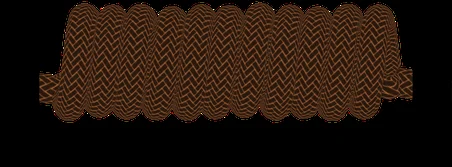
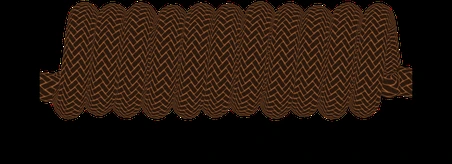
Header cable: sharper renders (2x supersampled) and natural patina
Mostly smooth aged copper with soft verdigris patches, verdigris crust in
the collar grooves and where the collars meet the cable; exported at
higher quality. Cable band 82px; LED path updated. Stylesheet vg-8-patina.

Claude-Session: https://claude.ai/code/session_014kgsP4zXbR91SpjPr6JWR2

diff --git a/mockups/nav-row.html b/mockups/nav-row.html
@@ -44,14 +44,14 @@ a.k:active .legend, a.k:active .mark, .k[aria-current] .legend, .k[aria-current]
 .medallion-wrap { position: relative; z-index: 2; flex-shrink: 0; }
 /* The cable: straight braided runs stretch with the page; the coil and plug stay fixed. It starts under the medallion. */
 .cable { position: relative; flex: 1; display: flex; min-width: 0; margin: -5.8px -26px 0 -24px; }   /* -5.8px: the cable lies on the keys' plate line */
-.cable .run { position: relative; flex: 1; min-width: 24px; height: 83.5px; background: url(keys/cable/tile.webp) repeat-x 0 0 / 120px 83.5px; }
+.cable .run { position: relative; flex: 1; min-width: 24px; height: 82px; background: url(keys/cable/tile.webp) repeat-x 0 0 / 120px 82px; }
 .cable .run.long { flex: 2; }
-.cable .coil { position: relative; flex-shrink: 0; width: 226px; height: 83.5px; background: url(keys/cable/coil.webp) 0 0 / 100% 100%; }
-.cable .plug { flex-shrink: 0; width: 108px; height: 83.5px; display: block; }
+.cable .coil { position: relative; flex-shrink: 0; width: 226px; height: 82px; background: url(keys/cable/coil.webp) 0 0 / 100% 100%; }
+.cable .plug { flex-shrink: 0; width: 108px; height: 82px; display: block; }
 /* LED: a glow render of the same cable (copper light through the gaps in the weave), shown only where a bead is,
    through a mask the script moves along the cable. Black in the glow image is neutral under the screen blend. */
 .cable .glow { position: absolute; inset: 0; pointer-events: none; mix-blend-mode: screen; filter: brightness(1.6); -webkit-mask-repeat: no-repeat; mask-repeat: no-repeat; -webkit-mask-image: linear-gradient(transparent, transparent); mask-image: linear-gradient(transparent, transparent); }
-.cable .run .glow { background: url(keys/cable/tile-glow.webp) repeat-x 0 0 / 120px 83.5px; }
+.cable .run .glow { background: url(keys/cable/tile-glow.webp) repeat-x 0 0 / 120px 82px; }
 .cable .coil .glow { background: url(keys/cable/coil-glow.webp) 0 0 / 100% 100%; }
 .bead { position: absolute; left: 0; top: 0; width: 34px; height: 16px; margin: -8px 0 0 -17px; border-radius: 50%; pointer-events: none; mix-blend-mode: screen; opacity: 0;
   background: radial-gradient(closest-side, rgba(232,131,77,.35), rgba(232,131,77,0)); }   /* faint bloom around the bead */
@@ -129,7 +129,7 @@ function key([cap, link]) {
 document.querySelectorAll('[data-row]').forEach(r => { r.innerHTML = ROWS[r.dataset.row].map(key).join(''); });
 
 // LED beads. The coil's centreline comes from the 3D render (CSS px within the coil image; 1 = on the near side of a loop).
-const LED = {"axis": 43.1, "collar": 19.6, "coil": [[0.0, 43.1, 1], [13.8, 43.1, 1], [27.2, 44.7, 0], [31.9, 43.3, 0], [32.6, 46.5, 0], [33.6, 51.4, 0], [34.6, 53.1, 1], [35.6, 51.3, 1], [36.6, 46.2, 1], [37.6, 38.8, 1], [38.6, 30.1, 1], [39.6, 21.6, 1], [40.6, 14.5, 1], [41.6, 10.1, 1], [42.5, 9.1, 1], [43.5, 11.7, 0], [44.5, 17.5, 0], [45.4, 25.5, 0], [46.4, 34.3, 0], [47.4, 42.3, 0], [48.3, 48.2, 0], [49.3, 51.1, 1], [50.2, 50.5, 1], [51.2, 46.3, 1], [52.1, 39.3, 1], [53.0, 30.8, 1], [53.9, 22.2, 1], [54.9, 15.1, 1], [55.8, 10.7, 1], [56.7, 9.7, 1], [57.6, 12.1, 0], [58.5, 17.7, 0], [59.4, 25.6, 0], [60.3, 34.3, 0], [61.2, 42.5, 0], [62.1, 48.7, 0], [63.0, 52.0, 0], [63.9, 51.8, 1], [64.9, 48.2, 1], [65.8, 41.8, 1], [66.7, 33.5, 1], [67.7, 24.8, 1], [68.6, 17.0, 1], [69.6, 11.6, 1], [70.5, 9.3, 1], [71.5, 10.4, 0], [72.5, 14.8, 0], [73.5, 21.8, 0], [74.5, 30.3, 0], [75.5, 38.9, 0], [76.5, 46.4, 0], [77.5, 51.3, 0], [78.6, 52.8, 1], [79.6, 50.5, 1], [80.7, 45.1, 1], [81.7, 37.3, 1], [82.8, 28.6, 1], [83.8, 20.3, 1], [84.9, 14.0, 1], [85.9, 10.7, 1], [86.9, 11.0, 0], [88.0, 14.9, 0], [89.0, 21.7, 0], [90.0, 30.1, 0], [91.0, 38.8, 0], [92.0, 46.2, 0], [92.9, 51.2, 0], [93.9, 52.9, 1], [94.8, 51.1, 1], [95.7, 45.9, 1], [96.6, 38.3, 1], [97.5, 29.6, 1], [98.5, 21.2, 1], [99.4, 14.4, 1], [100.2, 10.3, 1], [101.1, 9.5, 0], [102.0, 12.2, 0], [102.9, 18.1, 0], [103.8, 26.1, 0], [104.6, 34.9, 0], [105.5, 42.9, 0], [106.4, 48.9, 0], [107.3, 52.0, 0], [108.2, 51.7, 1], [109.1, 48.1, 1], [110.0, 41.6, 1], [110.9, 33.3, 1], [111.9, 24.6, 1], [112.8, 16.9, 1], [113.8, 11.7, 1], [114.8, 9.8, 1], [115.8, 11.4, 0], [116.8, 16.4, 0], [117.8, 23.9, 0], [118.8, 32.6, 0], [119.8, 40.9, 0], [120.9, 47.5, 0], [121.9, 51.1, 0], [122.9, 51.1, 1], [124.0, 47.5, 1], [125.0, 41.1, 1], [126.1, 32.9, 1], [127.1, 24.1, 1], [128.1, 16.4, 1], [129.2, 10.9, 1], [130.2, 8.7, 1], [131.2, 10.0, 0], [132.2, 14.7, 0], [133.2, 21.9, 0], [134.2, 30.5, 0], [135.1, 39.1, 0], [136.1, 46.4, 0], [137.1, 51.3, 0], [138.0, 52.9, 1], [139.0, 50.9, 1], [139.9, 45.6, 1], [140.9, 37.9, 1], [141.8, 29.2, 1], [142.8, 20.9, 1], [143.7, 14.2, 1], [144.6, 10.4, 1], [145.5, 9.9, 0], [146.4, 12.9, 0], [147.3, 19.0, 0], [148.2, 27.1, 0], [149.1, 35.8, 0], [150.0, 43.7, 0], [151.0, 49.4, 0], [151.9, 52.0, 0], [152.8, 50.9, 1], [153.8, 46.4, 1], [154.7, 39.2, 1], [155.6, 30.5, 1], [156.5, 22.1, 1], [157.5, 15.3, 1], [158.4, 11.3, 1], [159.4, 10.7, 0], [160.3, 13.7, 0], [161.3, 19.6, 0], [162.2, 27.6, 0], [163.2, 36.4, 0], [164.1, 44.4, 0], [165.1, 50.2, 0], [166.1, 53.0, 0], [167.1, 52.3, 1], [168.1, 48.3, 1], [169.0, 41.7, 1], [170.0, 33.3, 1], [171.0, 24.6, 1], [172.0, 16.9, 1], [173.0, 11.4, 1], [174.0, 9.2, 1], [175.1, 10.6, 0], [176.1, 15.3, 0], [177.1, 22.6, 0], [178.1, 31.2, 0], [179.2, 39.7, 0], [180.2, 46.8, 0], [181.2, 51.3, 0], [182.2, 52.2, 1], [183.2, 49.6, 1], [184.2, 43.8, 1], [185.2, 35.9, 1], [186.2, 27.1, 1], [187.2, 19.0, 1], [188.2, 12.8, 1], [189.2, 9.8, 1], [190.1, 10.3, 0], [191.1, 14.5, 0], [192.0, 21.6, 0], [192.9, 30.1, 0], [193.9, 38.6, 0], [194.5, 42.4, 0], [198.8, 41.1, 0], [212.2, 43.1, 1], [226.2, 43.1, 1], [226.2, 43.1, 1]]};
+const LED = {"axis":42.4,"collar":19.6,"coil":[[0.0,42.4,1],[13.8,42.4,1],[27.2,44.0,0],[31.9,42.6,0],[32.6,45.8,0],[33.6,50.7,0],[34.6,52.4,1],[35.6,50.5,1],[36.6,45.5,1],[37.6,38.0,1],[38.6,29.4,1],[39.6,20.9,1],[40.6,13.8,1],[41.6,9.4,1],[42.5,8.3,1],[43.5,11.0,0],[44.5,16.8,0],[45.4,24.8,0],[46.4,33.6,0],[47.4,41.6,0],[48.3,47.5,0],[49.3,50.4,1],[50.2,49.8,1],[51.2,45.6,1],[52.1,38.6,1],[53.0,30.0,1],[53.9,21.5,1],[54.9,14.4,1],[55.8,10.0,1],[56.7,9.0,1],[57.6,11.4,0],[58.5,17.0,0],[59.4,24.8,0],[60.3,33.6,0],[61.2,41.8,0],[62.1,48.0,0],[63.0,51.3,0],[63.9,51.1,1],[64.9,47.5,1],[65.8,41.1,1],[66.7,32.8,1],[67.7,24.1,1],[68.6,16.3,1],[69.6,10.9,1],[70.5,8.6,1],[71.5,9.7,0],[72.5,14.1,0],[73.5,21.1,0],[74.5,29.6,0],[75.5,38.2,0],[76.5,45.7,0],[77.5,50.6,0],[78.6,52.0,1],[79.6,49.8,1],[80.7,44.3,1],[81.7,36.6,1],[82.8,27.9,1],[83.8,19.6,1],[84.9,13.3,1],[85.9,9.9,1],[86.9,10.3,0],[88.0,14.2,0],[89.0,21.0,0],[90.0,29.4,0],[91.0,38.0,0],[92.0,45.5,0],[92.9,50.5,0],[93.9,52.2,1],[94.8,50.3,1],[95.7,45.2,1],[96.6,37.6,1],[97.5,28.9,1],[98.5,20.5,1],[99.4,13.7,1],[100.2,9.6,1],[101.1,8.8,0],[102.0,11.5,0],[102.9,17.4,0],[103.8,25.4,0],[104.6,34.1,0],[105.5,42.2,0],[106.4,48.2,0],[107.3,51.3,0],[108.2,51.0,1],[109.1,47.3,1],[110.0,40.9,1],[110.9,32.6,1],[111.9,23.9,1],[112.8,16.2,1],[113.8,11.0,1],[114.8,9.0,1],[115.8,10.7,0],[116.8,15.7,0],[117.8,23.2,0],[118.8,31.9,0],[119.8,40.2,0],[120.9,46.8,0],[121.9,50.4,0],[122.9,50.4,1],[124.0,46.8,1],[125.0,40.4,1],[126.1,32.1,1],[127.1,23.4,1],[128.1,15.7,1],[129.2,10.2,1],[130.2,8.0,1],[131.2,9.3,0],[132.2,14.0,0],[133.2,21.2,0],[134.2,29.8,0],[135.1,38.4,0],[136.1,45.7,0],[137.1,50.6,0],[138.0,52.2,1],[139.0,50.2,1],[139.9,44.9,1],[140.9,37.2,1],[141.8,28.5,1],[142.8,20.2,1],[143.7,13.5,1],[144.6,9.6,1],[145.5,9.1,0],[146.4,12.2,0],[147.3,18.3,0],[148.2,26.4,0],[149.1,35.1,0],[150.0,43.0,0],[151.0,48.7,0],[151.9,51.3,0],[152.8,50.2,1],[153.8,45.7,1],[154.7,38.5,1],[155.6,29.8,1],[156.5,21.4,1],[157.5,14.6,1],[158.4,10.6,1],[159.4,10.0,0],[160.3,12.9,0],[161.3,18.9,0],[162.2,26.9,0],[163.2,35.7,0],[164.1,43.7,0],[165.1,49.5,0],[166.1,52.3,0],[167.1,51.6,1],[168.1,47.6,1],[169.0,41.0,1],[170.0,32.6,1],[171.0,23.9,1],[172.0,16.2,1],[173.0,10.7,1],[174.0,8.5,1],[175.1,9.9,0],[176.1,14.6,0],[177.1,21.9,0],[178.1,30.5,0],[179.2,39.0,0],[180.2,46.1,0],[181.2,50.5,0],[182.2,51.5,1],[183.2,48.9,1],[184.2,43.1,1],[185.2,35.2,1],[186.2,26.4,1],[187.2,18.3,1],[188.2,12.1,1],[189.2,9.0,1],[190.1,9.6,0],[191.1,13.8,0],[192.0,20.9,0],[192.9,29.4,0],[193.9,37.9,0],[194.5,41.7,0],[198.8,40.4,0],[212.2,42.4,1],[226.2,42.4,1],[226.2,42.4,1]]};
 const SPEED = 140, EVERY = 1400;                              // bead speed px/s, ms between beads
 function ledPath(cable) {                                     // the whole route in cable coordinates, rebuilt on resize
   const [run1, coil, run2, plug] = cable.children, pts = [], seg = [];

diff --git a/src/static/script.js b/src/static/script.js
@@ -151,7 +151,7 @@ function fill(side){
 ;(()=>{
   const cable=document.querySelector(".site-header .cable");
   if(!cable||matchMedia("(prefers-reduced-motion: reduce)").matches)return;
-  const LED={"axis":43.1,"collar":19.6,"coil":[[0.0,43.1,1],[13.8,43.1,1],[27.2,44.7,0],[31.9,43.3,0],[32.6,46.5,0],[33.6,51.4,0],[34.6,53.1,1],[35.6,51.3,1],[36.6,46.2,1],[37.6,38.8,1],[38.6,30.1,1],[39.6,21.6,1],[40.6,14.5,1],[41.6,10.1,1],[42.5,9.1,1],[43.5,11.7,0],[44.5,17.5,0],[45.4,25.5,0],[46.4,34.3,0],[47.4,42.3,0],[48.3,48.2,0],[49.3,51.1,1],[50.2,50.5,1],[51.2,46.3,1],[52.1,39.3,1],[53.0,30.8,1],[53.9,22.2,1],[54.9,15.1,1],[55.8,10.7,1],[56.7,9.7,1],[57.6,12.1,0],[58.5,17.7,0],[59.4,25.6,0],[60.3,34.3,0],[61.2,42.5,0],[62.1,48.7,0],[63.0,52.0,0],[63.9,51.8,1],[64.9,48.2,1],[65.8,41.8,1],[66.7,33.5,1],[67.7,24.8,1],[68.6,17.0,1],[69.6,11.6,1],[70.5,9.3,1],[71.5,10.4,0],[72.5,14.8,0],[73.5,21.8,0],[74.5,30.3,0],[75.5,38.9,0],[76.5,46.4,0],[77.5,51.3,0],[78.6,52.8,1],[79.6,50.5,1],[80.7,45.1,1],[81.7,37.3,1],[82.8,28.6,1],[83.8,20.3,1],[84.9,14.0,1],[85.9,10.7,1],[86.9,11.0,0],[88.0,14.9,0],[89.0,21.7,0],[90.0,30.1,0],[91.0,38.8,0],[92.0,46.2,0],[92.9,51.2,0],[93.9,52.9,1],[94.8,51.1,1],[95.7,45.9,1],[96.6,38.3,1],[97.5,29.6,1],[98.5,21.2,1],[99.4,14.4,1],[100.2,10.3,1],[101.1,9.5,0],[102.0,12.2,0],[102.9,18.1,0],[103.8,26.1,0],[104.6,34.9,0],[105.5,42.9,0],[106.4,48.9,0],[107.3,52.0,0],[108.2,51.7,1],[109.1,48.1,1],[110.0,41.6,1],[110.9,33.3,1],[111.9,24.6,1],[112.8,16.9,1],[113.8,11.7,1],[114.8,9.8,1],[115.8,11.4,0],[116.8,16.4,0],[117.8,23.9,0],[118.8,32.6,0],[119.8,40.9,0],[120.9,47.5,0],[121.9,51.1,0],[122.9,51.1,1],[124.0,47.5,1],[125.0,41.1,1],[126.1,32.9,1],[127.1,24.1,1],[128.1,16.4,1],[129.2,10.9,1],[130.2,8.7,1],[131.2,10.0,0],[132.2,14.7,0],[133.2,21.9,0],[134.2,30.5,0],[135.1,39.1,0],[136.1,46.4,0],[137.1,51.3,0],[138.0,52.9,1],[139.0,50.9,1],[139.9,45.6,1],[140.9,37.9,1],[141.8,29.2,1],[142.8,20.9,1],[143.7,14.2,1],[144.6,10.4,1],[145.5,9.9,0],[146.4,12.9,0],[147.3,19.0,0],[148.2,27.1,0],[149.1,35.8,0],[150.0,43.7,0],[151.0,49.4,0],[151.9,52.0,0],[152.8,50.9,1],[153.8,46.4,1],[154.7,39.2,1],[155.6,30.5,1],[156.5,22.1,1],[157.5,15.3,1],[158.4,11.3,1],[159.4,10.7,0],[160.3,13.7,0],[161.3,19.6,0],[162.2,27.6,0],[163.2,36.4,0],[164.1,44.4,0],[165.1,50.2,0],[166.1,53.0,0],[167.1,52.3,1],[168.1,48.3,1],[169.0,41.7,1],[170.0,33.3,1],[171.0,24.6,1],[172.0,16.9,1],[173.0,11.4,1],[174.0,9.2,1],[175.1,10.6,0],[176.1,15.3,0],[177.1,22.6,0],[178.1,31.2,0],[179.2,39.7,0],[180.2,46.8,0],[181.2,51.3,0],[182.2,52.2,1],[183.2,49.6,1],[184.2,43.8,1],[185.2,35.9,1],[186.2,27.1,1],[187.2,19.0,1],[188.2,12.8,1],[189.2,9.8,1],[190.1,10.3,0],[191.1,14.5,0],[192.0,21.6,0],[192.9,30.1,0],[193.9,38.6,0],[194.5,42.4,0],[198.8,41.1,0],[212.2,43.1,1],[226.2,43.1,1],[226.2,43.1,1]]};                  // coil centreline in CSS px within the coil image, from mockups/keys/cable-export.py
+  const LED={"axis":42.4,"collar":19.6,"coil":[[0.0,42.4,1],[13.8,42.4,1],[27.2,44.0,0],[31.9,42.6,0],[32.6,45.8,0],[33.6,50.7,0],[34.6,52.4,1],[35.6,50.5,1],[36.6,45.5,1],[37.6,38.0,1],[38.6,29.4,1],[39.6,20.9,1],[40.6,13.8,1],[41.6,9.4,1],[42.5,8.3,1],[43.5,11.0,0],[44.5,16.8,0],[45.4,24.8,0],[46.4,33.6,0],[47.4,41.6,0],[48.3,47.5,0],[49.3,50.4,1],[50.2,49.8,1],[51.2,45.6,1],[52.1,38.6,1],[53.0,30.0,1],[53.9,21.5,1],[54.9,14.4,1],[55.8,10.0,1],[56.7,9.0,1],[57.6,11.4,0],[58.5,17.0,0],[59.4,24.8,0],[60.3,33.6,0],[61.2,41.8,0],[62.1,48.0,0],[63.0,51.3,0],[63.9,51.1,1],[64.9,47.5,1],[65.8,41.1,1],[66.7,32.8,1],[67.7,24.1,1],[68.6,16.3,1],[69.6,10.9,1],[70.5,8.6,1],[71.5,9.7,0],[72.5,14.1,0],[73.5,21.1,0],[74.5,29.6,0],[75.5,38.2,0],[76.5,45.7,0],[77.5,50.6,0],[78.6,52.0,1],[79.6,49.8,1],[80.7,44.3,1],[81.7,36.6,1],[82.8,27.9,1],[83.8,19.6,1],[84.9,13.3,1],[85.9,9.9,1],[86.9,10.3,0],[88.0,14.2,0],[89.0,21.0,0],[90.0,29.4,0],[91.0,38.0,0],[92.0,45.5,0],[92.9,50.5,0],[93.9,52.2,1],[94.8,50.3,1],[95.7,45.2,1],[96.6,37.6,1],[97.5,28.9,1],[98.5,20.5,1],[99.4,13.7,1],[100.2,9.6,1],[101.1,8.8,0],[102.0,11.5,0],[102.9,17.4,0],[103.8,25.4,0],[104.6,34.1,0],[105.5,42.2,0],[106.4,48.2,0],[107.3,51.3,0],[108.2,51.0,1],[109.1,47.3,1],[110.0,40.9,1],[110.9,32.6,1],[111.9,23.9,1],[112.8,16.2,1],[113.8,11.0,1],[114.8,9.0,1],[115.8,10.7,0],[116.8,15.7,0],[117.8,23.2,0],[118.8,31.9,0],[119.8,40.2,0],[120.9,46.8,0],[121.9,50.4,0],[122.9,50.4,1],[124.0,46.8,1],[125.0,40.4,1],[126.1,32.1,1],[127.1,23.4,1],[128.1,15.7,1],[129.2,10.2,1],[130.2,8.0,1],[131.2,9.3,0],[132.2,14.0,0],[133.2,21.2,0],[134.2,29.8,0],[135.1,38.4,0],[136.1,45.7,0],[137.1,50.6,0],[138.0,52.2,1],[139.0,50.2,1],[139.9,44.9,1],[140.9,37.2,1],[141.8,28.5,1],[142.8,20.2,1],[143.7,13.5,1],[144.6,9.6,1],[145.5,9.1,0],[146.4,12.2,0],[147.3,18.3,0],[148.2,26.4,0],[149.1,35.1,0],[150.0,43.0,0],[151.0,48.7,0],[151.9,51.3,0],[152.8,50.2,1],[153.8,45.7,1],[154.7,38.5,1],[155.6,29.8,1],[156.5,21.4,1],[157.5,14.6,1],[158.4,10.6,1],[159.4,10.0,0],[160.3,12.9,0],[161.3,18.9,0],[162.2,26.9,0],[163.2,35.7,0],[164.1,43.7,0],[165.1,49.5,0],[166.1,52.3,0],[167.1,51.6,1],[168.1,47.6,1],[169.0,41.0,1],[170.0,32.6,1],[171.0,23.9,1],[172.0,16.2,1],[173.0,10.7,1],[174.0,8.5,1],[175.1,9.9,0],[176.1,14.6,0],[177.1,21.9,0],[178.1,30.5,0],[179.2,39.0,0],[180.2,46.1,0],[181.2,50.5,0],[182.2,51.5,1],[183.2,48.9,1],[184.2,43.1,1],[185.2,35.2,1],[186.2,26.4,1],[187.2,18.3,1],[188.2,12.1,1],[189.2,9.0,1],[190.1,9.6,0],[191.1,13.8,0],[192.0,20.9,0],[192.9,29.4,0],[193.9,37.9,0],[194.5,41.7,0],[198.8,40.4,0],[212.2,42.4,1],[226.2,42.4,1],[226.2,42.4,1]]};                  // coil centreline in CSS px within the coil image, from mockups/keys/cable-export.py
   const SPEED=140,GAP=SPEED*1.4;      // px per second; px between beads (one every 1.4s)
   const [run1,coil,run2,plug]=cable.children,pieces=[run1,coil,run2],blooms=[];
   let route=null;

diff --git a/mockups/keys/render-cable.html b/mockups/keys/render-cable.html
@@ -16,8 +16,8 @@ import { RoundedBoxGeometry } from 'three/addons/geometries/RoundedBoxGeometry.j
 // Pieces: 'tile' (straight run, whole braid periods), 'coil' (coiled section, patina-copper collars hide the joins),
 // 'plug' (heat-shrink tail, patina-copper housing, steel USB-C shell pointing right).
 // glow: true renders the same piece lit only from inside (copper light through the gaps in the weave), for the LED.
-const PX = 15;                                  // render px per mm
-const H = 480, W = 1800;
+const PX = 30;                                  // render px per mm (2x supersampled; exported down to 2x CSS)
+const H = 960, W = 3600;
 const renderer = new THREE.WebGLRenderer({ antialias: true, alpha: true, preserveDrawingBuffer: true });
 renderer.setPixelRatio(1); renderer.setSize(W, H);
 renderer.outputColorSpace = THREE.SRGBColorSpace;
@@ -88,15 +88,15 @@ function noise2(sz, oct, f0 = 4) {                 // tileable value-noise fbm
   for (let i = 0; i < out.length; i++) out[i] /= tot;
   return out;
 }
-function patinaMat(f0) {
+function patinaMat(f0, amount) {                    // amount: how far the verdigris has spread (0-1)
   const sz = 512, n = noise2(sz, 6, f0), fine = noise2(sz, 6, f0 * 2), c = document.createElement('canvas'), r = document.createElement('canvas');
   c.width = c.height = r.width = r.height = sz;
   const ci = c.getContext('2d').createImageData(sz, sz), ri = r.getContext('2d').createImageData(sz, sz);
   for (let i = 0; i < sz * sz; i++) {
     // mostly aged, darkened copper; verdigris settles as fine speckle that thickens in patches
-    const p = Math.min(1, Math.max(0, (n[i] * 0.55 + fine[i] * 0.45 - 0.47) * 4.5)) * 0.9;
-    const age = 0.55 + 0.45 * fine[i];                                          // uneven darkening
-    const cu = [112 * age + 14, 62 * age + 8, 40 * age + 6];                    // aged, darkened copper
+    const p = Math.min(1, Math.max(0, (n[i] * 0.8 + fine[i] * 0.2 - 0.40) * 2.6)) * amount;   // soft-edged patches
+    const age = 0.78 + 0.22 * n[i];                                             // gentle, broad darkening
+    const cu = [100 * age + 12, 55 * age + 8, 36 * age + 6];                    // aged, darkened copper
     const vg = [70 + 22 * fine[i], 112 + 22 * fine[i], 100 + 18 * fine[i]];     // muted verdigris
     for (let ch = 0; ch < 3; ch++) ci.data[i * 4 + ch] = cu[ch] + (vg[ch] - cu[ch]) * p;
     ci.data[i * 4 + 3] = 255;
@@ -108,8 +108,10 @@ function patinaMat(f0) {
   for (const t of [map, rm]) { t.wrapS = t.wrapT = THREE.RepeatWrapping; }
   return new THREE.MeshPhysicalMaterial({ map, roughnessMap: rm, metalnessMap: rm, roughness: 1, metalness: 1 });
 }
-const patina = patinaMat(4);
-const housing = patinaMat(6);                      // the box maps the texture once per face, so it needs finer detail
+// mostly smooth aged copper; verdigris settles in the collar grooves (verdigrisFill) and only faintly elsewhere
+const patina = patinaMat(3, 0.85);
+const housing = patinaMat(3, 0.8);
+const verdigrisFill = patinaMat(8, 1);
 const steel = new THREE.MeshPhysicalMaterial({ color: 0x6f7774, metalness: 1, roughness: 0.5 });
 const rubber = new THREE.MeshPhysicalMaterial({ color: 0x141617, roughness: 0.55, sheen: 0.3, sheenColor: new THREE.Color(0x667070) });
 const BLACK = new THREE.MeshBasicMaterial({ color: 0x000000 });
@@ -149,7 +151,11 @@ window.renderPiece = async ({ name, glow = false }) => {
     pts.push(new THREE.Vector3(span / 2 + 1.2, 0.6, R + 0.1), new THREE.Vector3(span / 2 + lead - 4, 0, R), new THREE.Vector3(span / 2 + lead, 0, R));
     const curve = new THREE.CatmullRomCurve3(pts, false, 'centripetal');
     group.add(cableMesh(curve, 2200));
-    group.add(lathe(collarProfile, start, patina), lathe(collarProfile, span / 2 + lead - 5.5, patina));
+    for (const x of [start, span / 2 + lead - 5.5]) {
+      group.add(lathe(collarProfile, x, patina));
+      group.add(lathe([[R + 0.72, 1.75], [R + 0.72, 2.25]], x, verdigrisFill));   // crust in the groove
+      group.add(lathe([[R + 0.52, -0.05], [R + 0.52, 0.3]], x, verdigrisFill), lathe([[R + 0.52, 5.2], [R + 0.52, 5.55]], x, verdigrisFill));   // and where it meets the cable
+    }
     x0 = start; x1 = span / 2 + lead;
     path = { curve, axisZ: R + CR };
   } else {                                                    // plug, pointing right

diff --git a/src/static/styles.css b/src/static/styles.css
@@ -3139,13 +3139,13 @@ main:not(.section-shell),
 .site-header{position:sticky;top:var(--space-0);z-index:100;display:flex;align-items:center;min-height:92px;padding:var(--space-4) var(--space-pattern-029);background:var(--cast);color:var(--bright);border-bottom:var(--border-width) solid var(--line)}
 .brand{position:relative;z-index:2;display:block;flex-shrink:0;border-radius:var(--radius-circle)}
 .brand-mark{display:block;width:64px;height:64px}
-.cable{position:relative;flex:1;display:flex;min-width:0;margin:calc(var(--space-2) * -1.05) calc(var(--space-26) * -1) var(--space-0) calc(var(--space-24) * -1)}   /* lines the cable up with the keys' plate */
-.cable .run{position:relative;flex:1;min-width:24px;height:83.5px;background:url(/assets/cable/tile.webp) repeat-x 0 0/120px 83.5px}
+.cable{position:relative;flex:1;display:flex;min-width:0;margin:calc(var(--space-2) * -1.1) calc(var(--space-26) * -1) var(--space-0) calc(var(--space-24) * -1)}   /* lines the cable up with the keys' plate */
+.cable .run{position:relative;flex:1;min-width:24px;height:82px;background:url(/assets/cable/tile.webp) repeat-x 0 0/120px 82px}
 .cable .run.long{flex:2}
-.cable .coil{position:relative;flex-shrink:0;width:226px;height:83.5px;background:url(/assets/cable/coil.webp) 0 0/100% 100%}
-.cable .plug{flex-shrink:0;display:block;width:108px;height:83.5px}
+.cable .coil{position:relative;flex-shrink:0;width:226px;height:82px;background:url(/assets/cable/coil.webp) 0 0/100% 100%}
+.cable .plug{flex-shrink:0;display:block;width:108px;height:82px}
 .cable .glow{position:absolute;inset:0;pointer-events:none;mix-blend-mode:screen;filter:brightness(1.6);-webkit-mask-repeat:no-repeat;mask-repeat:no-repeat;-webkit-mask-image:linear-gradient(transparent,transparent);mask-image:linear-gradient(transparent,transparent)}
-.cable .run .glow{background:url(/assets/cable/tile-glow.webp) repeat-x 0 0/120px 83.5px}
+.cable .run .glow{background:url(/assets/cable/tile-glow.webp) repeat-x 0 0/120px 82px}
 .cable .coil .glow{background:url(/assets/cable/coil-glow.webp) 0 0/100% 100%}
 .cable .bead{position:absolute;left:0;top:0;width:34px;height:16px;margin:calc(var(--space-8) * -1) 0 0 calc(var(--space-16) * -1);border-radius:var(--radius-circle);pointer-events:none;mix-blend-mode:screen;opacity:0;background:radial-gradient(closest-side,var(--led-bloom),var(--led-bloom-clear))}
 .nav{position:relative;z-index:1;display:flex;align-items:flex-end;column-gap:3.9px;flex-shrink:0}   /* 3.9px: the 1.06mm gap between caps on a plate */

diff --git a/src/partials/header.html b/src/partials/header.html
@@ -1,6 +1,6 @@
 <header class="site-header">
   <a class="brand" href="/" aria-label="Yoru Foundry home"><img class="brand-mark" src="/assets/yoru-foundry-logo-trim.webp" alt="Yoru Foundry" width="64" height="64"></a>
-  <div class="cable" aria-hidden="true"><span class="run"><i class="glow"></i></span><span class="coil"><i class="glow"></i></span><span class="run long"><i class="glow"></i></span><img class="plug" src="/assets/cable/plug.webp" alt="" width="108" height="84"></div>
+  <div class="cable" aria-hidden="true"><span class="run"><i class="glow"></i></span><span class="coil"><i class="glow"></i></span><span class="run long"><i class="glow"></i></span><img class="plug" src="/assets/cable/plug.webp" alt="" width="108" height="82"></div>
   <nav class="nav" id="site-nav" aria-label="Primary navigation">{{NAV_KEYS}}</nav>
   {{COMMISSION_KEY}}
   <button class="menu-toggle" type="button" aria-controls="site-nav" aria-expanded="false" aria-label="Menu">

diff --git a/mockups/keys/render-cable.js b/mockups/keys/render-cable.js
@@ -3,7 +3,7 @@ const { chromium } = require('/opt/node22/lib/node_modules/playwright');
 const fs = require('fs');
 (async () => {
   const b = await chromium.launch({ args: ['--use-gl=angle', '--use-angle=swiftshader', '--enable-unsafe-swiftshader'] });
-  const p = await b.newPage({ viewport: { width: 1800, height: 480 } }); const e = [];
+  const p = await b.newPage({ viewport: { width: 3600, height: 960 } }); const e = [];
   p.on('pageerror', x => e.push(x.message)); p.on('console', m => { if (m.type() === 'error') e.push(m.text()) });
   await p.goto('http://localhost:8767/render-cable.html', { waitUntil: 'networkidle' }); await p.waitForFunction(() => window.ready, null, { timeout: 30000 });
   const opts = JSON.parse(process.argv[2]), out = process.argv[3], meta = { keyGroundY: await p.evaluate(() => window.keyGroundY), keyPxPerMm: await p.evaluate(() => window.keyPxPerMm) };

diff --git a/build.js b/build.js
@@ -2,7 +2,7 @@ const fs = require("node:fs");
 const path = require("node:path");
 
 const config = Object.freeze({
-  stylesheetVersion: "vg-7-request",
+  stylesheetVersion: "vg-8-patina",
   siteTitle: "Yoru Foundry",
   SITE_MODE: "prelaunch",
 });

diff --git a/mockups/keys/cable-export.py b/mockups/keys/cable-export.py
@@ -5,7 +5,7 @@ S, D = sys.argv[1], sys.argv[2]
 m = json.load(open(S + '/cable/cable-meta.json'))
 ims = {n: Image.open(f'{S}/cable/{n}.png') for n in ['tile', 'coil', 'plug']}
 top = min(i.getbbox()[1] for i in ims.values()) - 6; bot = max(i.getbbox()[3] for i in ims.values()) + 6
-C = 120 / 504                  # CSS px per render px: the tile (12 braid periods) is exactly 120 CSS px
+C = 120 / (12 * 2.8 * 30)    # CSS px per render px: the tile (12 braid periods at 30 px/mm) is exactly 120 CSS px
 dims = {}
 for n in ['tile', 'coil', 'plug']:
     for g in ['', '-glow']:
@@ -14,7 +14,7 @@ for n in ['tile', 'coil', 'plug']:
         w, h = round(c.width * C * 2), round(c.height * C * 2)
         c = c.resize((w, h), Image.LANCZOS)
         if g: c = c.convert('RGB')   # glow: black is neutral under a screen blend
-        c.save(f'{D}/{n}{g}.webp', quality=86); dims[n] = (w / 2, h / 2)
+        c.save(f'{D}/{n}{g}.webp', quality=92); dims[n] = (w / 2, h / 2)
 keytop = min(Image.open(f'{S}/row/{k}{s}.png').getbbox()[1] for k in ['d1.25', 'd1.5', 'd1.75', 'd2', 'd6.25', 's2.25'] for s in ['', '-hover', '-press']) - 12
 K = 168 / 1221
 offset = round((m['keyGroundY'] - keytop) * K - (m['tile']['groundY'] - top) * C, 1)
@@ -25,5 +25,5 @@ while i < n and abs(pts[i][1] - ay) <= 1.5: i += 1
 j = n - 1
 while j >= 0 and abs(pts[j][1] - ay) <= 1.5: j -= 1
 coil = [[round((pts[k][0] - x0) * C, 1), round((pts[k][1] - top) * C, 1), 1 if (k < i or k > j) else pts[k][2]] for k in list(range(0, n, 4)) + [n - 1]]
-json.dump({'dims': dims, 'offset': offset, 'axis': axis, 'collar': round(5.5 * 15 * C, 1), 'coil': coil}, open(S + '/cable/led-path.json', 'w'))
+json.dump({'dims': dims, 'offset': offset, 'axis': axis, 'collar': round(5.5 * 30 * C, 1), 'coil': coil}, open(S + '/cable/led-path.json', 'w'))
 print(dims, offset, axis)
